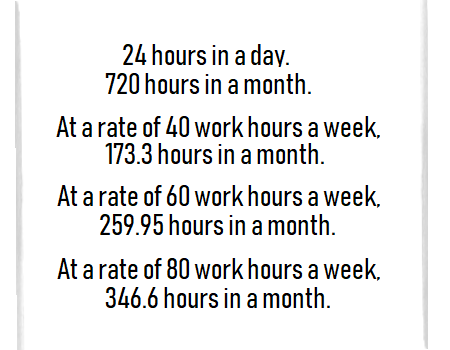
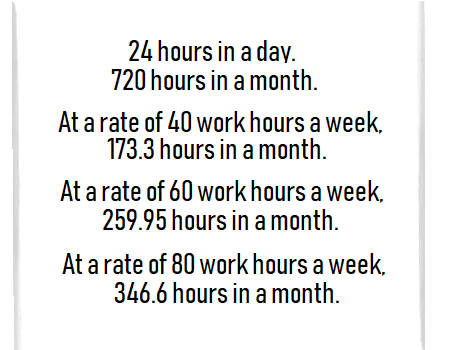
cont'd cleanup; cont'd making responsive

diff --git a/css.css b/css.css
@@ -123,12 +123,26 @@ img.responsive-image{
     }
   }
 
+  @media only screen and (max-width: 800px) {
+    h1 {
+        font-family: 'Abel';
+        font-weight: bold;
+        text-align: right;
+        background-color: rgb(255, 255, 255, .5);
+    }
+  }
+
 .costcards h3 {
     font-family: 'Abel';
     font-size: 150%;
     font-weight: bold;
     text-align: right;
     background-color: rgb(255, 255, 255, .5);
+}
+
+#centercard img{
+    width: 100%;
+    height: 100%;
 }
 
 #centercard h5 {
@@ -139,10 +153,10 @@ img.responsive-image{
 }
 
 .modal h4 {
-        font-family: 'Abel';
-        font-weight: bold;
-        text-align: left;
-        background-color: rgba(175, 215, 252, 0.3);    
+    font-family: 'Abel';
+    font-weight: bold;
+    text-align: left;
+    background-color: rgba(175, 215, 252, 0.3);    
 }
 
 /* ----- */

diff --git a/index.html b/index.html
@@ -225,7 +225,7 @@
                                 <a class="waves-effect waves-light modal-trigger" href="#centermodal">
                                     <img width="450" 
                                         height="350" 
-                                        src="./img/transparenthoursofwork.png" 
+                                        src="./img/hoursofworktransparent.png" 
                                         class="responsive-img" 
                                         alt="center card" 
                                         title="center card" 
